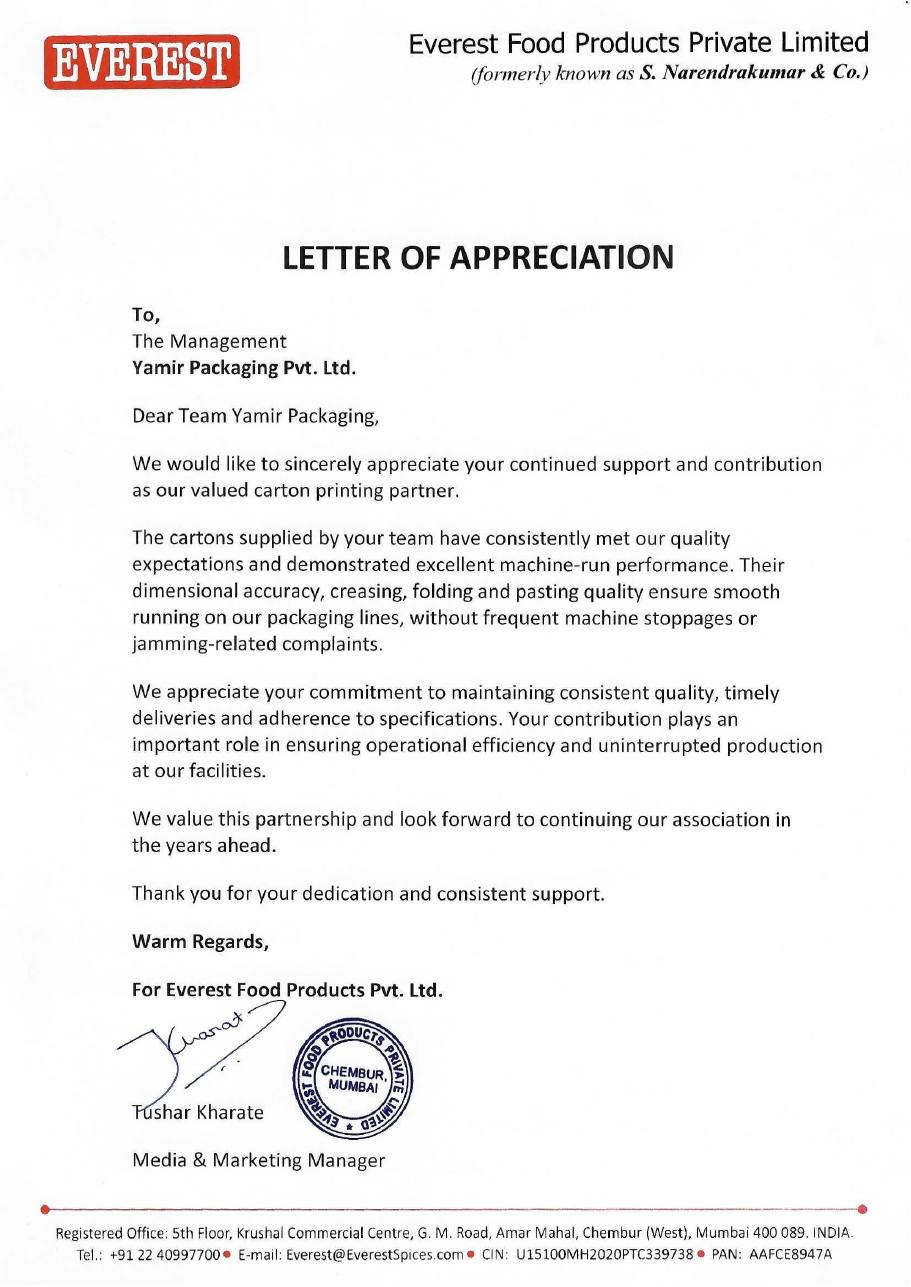
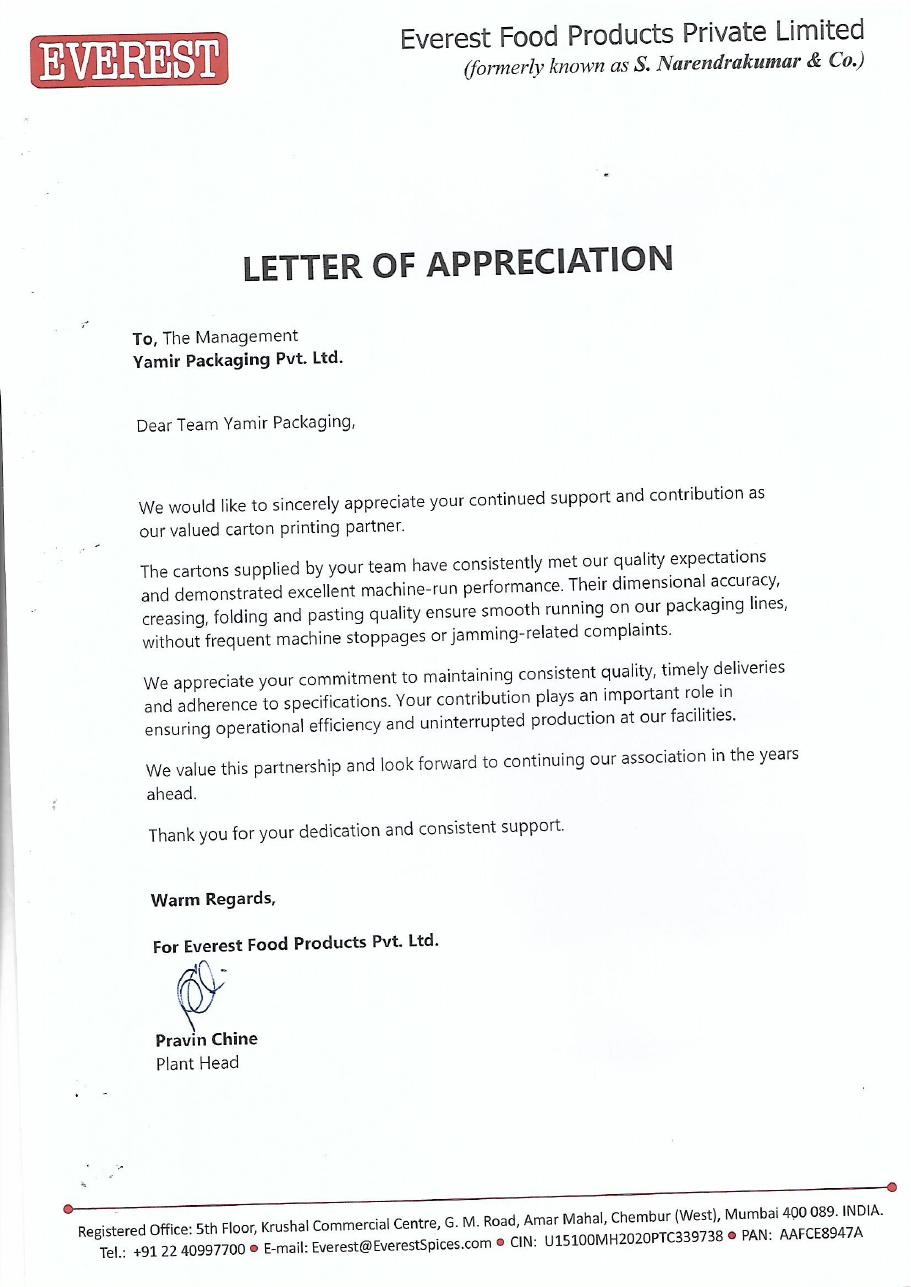
everest update

diff --git a/site/index.html b/site/index.html
@@ -847,7 +847,7 @@ html.snapf{scroll-snap-type:y proximity}
 <figure class="tqf on" role="tabpanel"><blockquote>Colgate-Palmolive India has partnered with Yamir Packaging since 2022 to supply packaging materials compliant with the high-speed auto-cartonator lines at our Sanand manufacturing facility, supporting our quality assurance and operational requirements.</blockquote><figcaption><img class="av avp" loading="lazy" src="img/testimonial-devendra-kelkar.jpg" alt="Devendra Kelkar" width="56" height="56"><span class="lbl"><a class="tql" href="https://www.linkedin.com/in/devendra-kelkar-68b11915/" target="_blank" rel="noopener" title="Devendra Kelkar on LinkedIn">Devendra Kelkar</a> · Manager, Planning, Materials &amp; Systems · Colgate-Palmolive (India) Limited</span></figcaption></figure>
 <figure class="tqf" role="tabpanel"><blockquote>Thank you to you and the YAMIR team for your consistent support and partnership. We greatly appreciate your timely deliverables, commitment to quality, and collaborative approach. Your responsiveness and practical, people-focused engagement have helped build a strong relationship based on trust and mutual respect, supporting and benefiting the Nestle business.</blockquote><figcaption><img class="av avp" loading="lazy" src="img/testimonial-ajay-rajvanshi.jpg" alt="Ajay Rajvanshi" width="56" height="56"><span class="lbl"><a class="tql" href="https://www.linkedin.com/in/ajay-rajvanshi/" target="_blank" rel="noopener" title="Ajay Rajvanshi on LinkedIn">Ajay Rajvanshi</a> · Senior Manager, Corporate Print Packaging Development · Nestlé India Limited</span></figcaption></figure>
 <figure class="tqf" role="tabpanel"><blockquote>We appreciate the service and support provided by your team for our Dispensers &amp; Mono Carton requirements. The team has been responsive to our requirements and focused on providing timely support. We value our association and look forward to continued collaboration.</blockquote><figcaption><img class="av avp" loading="lazy" src="img/testimonial-aravinda-nagaraj.jpg" alt="Aravinda Nagaraj" width="56" height="56"><span class="lbl"><a class="tql" href="https://www.linkedin.com/in/aravind-nagaraj-74b44657/" target="_blank" rel="noopener" title="Aravinda Nagaraj on LinkedIn">Aravinda Nagaraj</a> · Head Materials Planning · Hershey India</span></figcaption></figure>
-<figure class="tqf" role="tabpanel"><blockquote>The cartons supplied by your team have consistently met our quality expectations and demonstrated excellent machine-run performance. … We appreciate your commitment to maintaining consistent quality, timely deliveries and adherence to specifications.</blockquote><figcaption><span class="av avi" aria-hidden="true">TK</span><span class="lbl">Tushar Kharate · Media &amp; Marketing Manager · Everest Food Products Pvt. Ltd. · <button type="button" class="tql tqv" id="evl">View letter</button></span></figcaption></figure>
+<figure class="tqf" role="tabpanel"><blockquote>The cartons supplied by your team have consistently met our quality expectations and demonstrated excellent machine-run performance. … We appreciate your commitment to maintaining consistent quality, timely deliveries and adherence to specifications.</blockquote><figcaption><img class="av avp" loading="lazy" src="img/testimonial-pravin-chine.jpg" alt="Pravin Chine" width="56" height="56"><span class="lbl"><a class="tql" href="https://www.linkedin.com/in/pravin-chine-2664896a/" target="_blank" rel="noopener" title="Pravin Chine on LinkedIn">Pravin Chine</a> · Plant Head · Everest Food Products Pvt. Ltd. · <button type="button" class="tql tqv" id="evl">View letter</button></span></figcaption></figure>
 <figure class="tqf" role="tabpanel"><blockquote>For being a frontline hero during the COVID-19 pandemic. From safe day-to-day delivery, to timely production and supply of critical materials, your team has shown unparalleled support and dedication. We feel proud to be associated with you.</blockquote><figcaption><img class="av avp" loading="lazy" src="img/testimonial-dhruba-basu.jpg" alt="Dhruba Basu" width="56" height="56"><span class="lbl"><a class="tql" href="https://www.linkedin.com/in/dhruba-basu-51345b12/" target="_blank" rel="noopener" title="Dhruba Basu on LinkedIn">Dhruba Basu</a> · MCO Procurement Head · Sanofi · Certificate of Appreciation · <button type="button" class="tql tqv" data-n="cert-sanofi" data-doc="img/cert-sanofi.jpg" data-alt="Certificate of Appreciation from Sanofi to Yamir Packaging, for supply during the COVID-19 pandemic">View certificate</button></span></figcaption></figure>
 <figure class="tqf" role="tabpanel"><blockquote>For your continued support and commendable efforts for maintaining high standard of quality and service level in 2022. It’s an honor to be associated with business partner like you.</blockquote><figcaption><span class="av avi" aria-hidden="true">H</span><span class="lbl">Certificate of Appreciation, 2022 · Havmor Ice Cream · Signed by the Managing Director, VP Procurement, VP Factory and Head of Finance · <button type="button" class="tql tqv" data-n="cert-havmor" data-doc="img/cert-havmor.jpg" data-alt="Certificate of Appreciation from Havmor Ice Cream to Yamir Packaging Pvt Ltd, 2022">View certificate</button></span></figcaption></figure>
 </div>
@@ -877,7 +877,7 @@ html.snapf{scroll-snap-type:y proximity}
 </section>
 
 <nav class="mbar" aria-label="Contact"><a href="https://wa.me/919998200099" target="_blank" rel="noopener">WhatsApp</a><a href="tel:+919998200084">Call</a><a class="go" href="#ask">Enquire</a></nav>
-<dialog id="ldlg" aria-label="Letter of appreciation from Everest Food Products Pvt. Ltd."><div class="ldl"><button type="button" class="x" id="lx" aria-label="Close">Close</button><img src="img/everest-letter.jpg" alt="Letter of appreciation from Everest Food Products Pvt. Ltd. to Yamir Packaging Pvt. Ltd., signed by Tushar Kharate, Media and Marketing Manager" loading="lazy"></div></dialog>
+<dialog id="ldlg" aria-label="Letter of appreciation from Everest Food Products Pvt. Ltd."><div class="ldl"><button type="button" class="x" id="lx" aria-label="Close">Close</button><img src="img/everest-letter.jpg" alt="Letter of appreciation from Everest Food Products Pvt. Ltd. to Yamir Packaging Pvt. Ltd., signed by Pravin Chine, Plant Head" loading="lazy"></div></dialog>
 <dialog id="cdlg" aria-labelledby="ct">
   <div class="dlg">
     <div class="scan" id="cscan" tabindex="0"></div>
